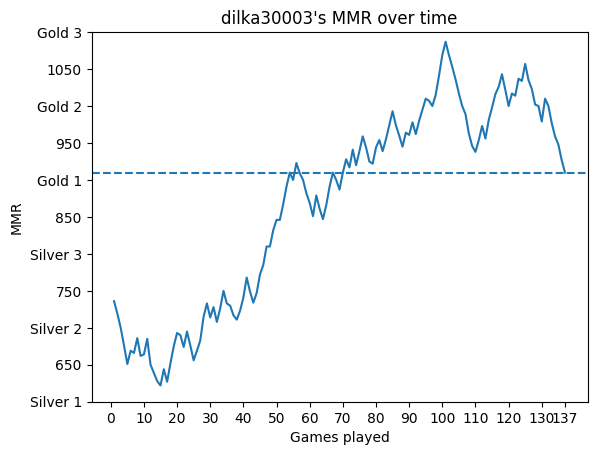
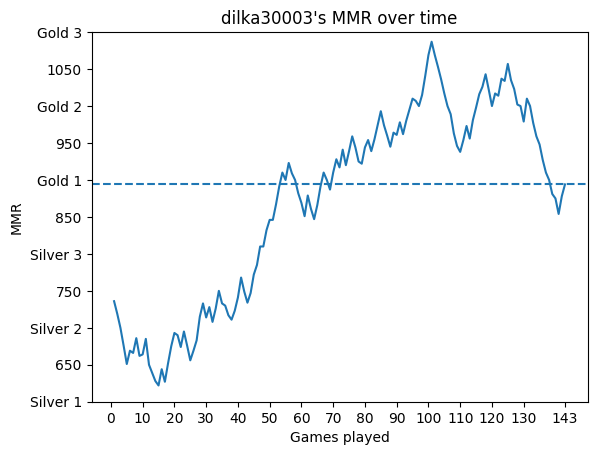
elo history updates, api is being weird, gonna hold off rewrite till v2 of api

diff --git a/main.py b/main.py
@@ -11,6 +11,8 @@ from discord_slash import SlashCommand
 from discord_slash.utils.manage_commands import create_option, create_choice
 import random
 import playerclass
+import personClass
+import csv
 
 def get_config():
     c = configparser.ConfigParser()
@@ -141,17 +143,19 @@ async def graph(ctx, usernames=""):
         users[i] = users[i].split('#')[0].lower().strip()
 
     if len(users) == 1:
+        the_message = await ctx.send("please wait...")
+        msg = ""
         flag = graphs.make_graph(users[0])
         if flag == False:
-            await ctx.send("Player not found")
+            await the_message.edit(content="Player not found or api being stupid")
 
         elif flag == None:
-            await ctx.send("Not enough data to plot graph")
+            await the_message.edit(content="Not enough data to plot graph")
 
         else:
             with open(f"/home/ubuntu/discord_bot/elo_graphs/{users[0]}.png", 'rb') as f:
                 picture = discord.File(f)
-                await ctx.send(file=picture)
+                await the_message.edit(content= "", file=picture)
 
     else:
         the_message = await ctx.send("please wait...")
@@ -507,6 +511,113 @@ async def on_message(message):
         f.close()
 
         await message.channel.send(last)
+
+    if message.guild is None and not message.author.bot:
+        file = open('peoplecodes.txt','r')
+        anonIDs = file.readlines()
+        file.close()
+
+        for i in range(0, len(anonIDs)):
+            anonIDs[i] = anonIDs[i].strip()
+
+        dontlook = []
+        with open("dontlook.csv", "r") as f:
+            reader = csv.reader(f, delimiter="\t")
+            for i, line in enumerate(reader):
+                dontlook.append(line[0].split(','))
+
+        Faaez =     personClass.Person("faaez",     410771947522359296, anonIDs[0])
+        #faq =       personClass.Person("faq",       776365641576742932, anonIDs[1])
+        Dhiluka =   personClass.Person("dhiluka",   305132419474784257, anonIDs[2])
+        Rasindu =   personClass.Person("rasindu",   285341337899761673, anonIDs[3])
+        Dylan =     personClass.Person("dylan",     236820135254425600, anonIDs[4])
+        Josh =      personClass.Person("josh",      389600778651959296, anonIDs[5])
+        Vivian =    personClass.Person("vivian",    261818489159811072, anonIDs[6])
+        Ethan =     personClass.Person("ethan",     400499749263769600, anonIDs[7])
+        Albert =    personClass.Person("albert",    284881791335006209, anonIDs[8])
+        Henry =     personClass.Person("henry",     290323655437713419, anonIDs[9])
+        Joseph =    personClass.Person("joseph",    219270614362488832, anonIDs[10])
+        Darren =    personClass.Person("darren",    286762644067713035, anonIDs[11])
+        Delwyn =    personClass.Person("delwyn",    389687347605798913, anonIDs[12])
+        Hadi =      personClass.Person("hadi",      251576622698856449, anonIDs[13])
+        Will =      personClass.Person("will",      409908597397389313, anonIDs[14])
+        Chris =     personClass.Person("chris",     320792211174195210, anonIDs[15])
+
+        receiver = None
+        people = [Faaez, Rasindu, Dhiluka, Dylan, Josh, Vivian, Ethan, Albert, Henry, Joseph, Darren, Delwyn, Hadi, Will, Chris]
+
+        name = message.content.split(' ')[0]
+        words = message.content.replace(name, '')
+
+        if name.lower() == 'reply':
+            anonReceiverID = message.content.split(' ')[1]
+            words = message.content.replace(name, '')
+            words = words.replace(anonReceiverID, '')
+
+            for person in people:
+                if int(person.anonID) == int(anonReceiverID):
+                    receiver = person
+                    break
+            
+            if receiver == None:
+                await message.author.send("invalid ID")
+
+            else:
+                flag = False
+                for i in range(0, len(dontlook)):
+                    if message.author.id == int(dontlook[i][0]):
+                        if int(dontlook[i][2]) < 7:
+                            dontlook[i][2] = int(dontlook[i][2]) + 1
+                            flag = True
+                            break
+
+                if flag:
+                    receiverUser = await client.fetch_user(receiver.discordID)
+                    await receiverUser.send("reply: \n" + words.strip())
+                    await message.author.send("message sent")
+                
+                else:
+                    await message.author.send("message limit reached")
+
+        else:
+            for person in people:
+                if person.discordID == message.author.id:
+                    sender = person
+                    break
+
+            for person in people:
+                if person.name == name:
+                    receiver = person
+                    break
+            
+            if receiver == None:
+                await message.author.send("incorrect format, please provide name")
+            
+            else:
+                flag = False
+                for i in range(0, len(dontlook)):
+                    if dontlook[i][0] == str(sender.discordID):
+                        if dontlook[i][1] == '0':
+                            dontlook[i][1] = str(receiver.anonID)
+                            dontlook[i][2] = int(dontlook[i][2]) + 1
+                            flag = True
+                        else:
+                            if dontlook[i][1] == str(receiver.anonID) and int(dontlook[i][2]) < 7:
+                                dontlook[i][2] = int(dontlook[i][2]) + 1
+                                flag = True
+                        break
+
+                if flag:
+                    receiverUser = await client.fetch_user(receiver.discordID)
+                    await receiverUser.send(words.strip() + '\nfrom: ' + str(sender.anonID)) 
+                    await message.author.send("message sent")
+                else:
+                    await message.author.send("you cant send a message to that person or message limit reached")
+
+        csvfile = open('dontlook.csv', 'w')
+        for line in dontlook:
+            csvfile.write(str(line[0]) + ',' + str(line[1]) + ',' + str(line[2]) + '\n')
+        csvfile.close()
 
     await client.process_commands(message)
 

diff --git a/elo_history_updater.py b/elo_history_updater.py
@@ -27,10 +27,7 @@ def update_all_elo_history():
         #print("completed " + str(i + 1) + "/" + str(len(playerList.players)))
         #graphs.make_graph(playerList.players[i].ign)
 
-    if update_count == 0:
-        return "no"
-    else:
-        return str(update_count) + " updates"
+    return str(update_count) + " updates"
 
 if __name__ == '__main__':
     updates = update_all_elo_history()
@@ -40,5 +37,5 @@ if __name__ == '__main__':
     if updates[0] == "welp":
         print("welp at " + str(updates[1]) + ": " + melb_now.strftime("%d/%m/%Y") + " at " + melb_now.strftime("%H:%M:%S"))
 
-    elif updates != "no":
+    else:
         print("completed on: " + melb_now.strftime("%d/%m/%Y") + " at " + melb_now.strftime("%H:%M:%S") + " with " + updates)

diff --git a/ritsu.py b/ritsu.py
@@ -124,7 +124,7 @@ async def on_message(message):
 
                 if flag:
                     receiverUser = await client.fetch_user(receiver.discordID)
-                    await receiverUser.send(words.strip() + '\n') #from: ' + str(sender.anonID)) 
+                    await receiverUser.send(words.strip() + '\nfrom: ' + str(sender.anonID)) 
                     await message.author.send("message sent")
                 else:
                     await message.author.send("you cant send a message to that person or message limit reached")

diff --git a/valorant.py b/valorant.py
@@ -23,7 +23,7 @@ def get_mmr_history(ign, tag=""):
     url = f"https://api.henrikdev.xyz/valorant/v1/mmr-history/ap/{ign}/{tag}"
     r = requests.get(url)
 
-    if str(r) == "<Response [204]>":
+    if str(r) == "<Response [204]>" or str(r) == "<Response [504]>":
         return False
 
     john = json.loads(r.text)
@@ -391,4 +391,4 @@ def remove_player(ign, tag):
     return f'{ign}#{tag} has been removed'
 
 if __name__ == '__main__':
-    print(region_leaderboard('na'))
+    print(local_leaderboard())
